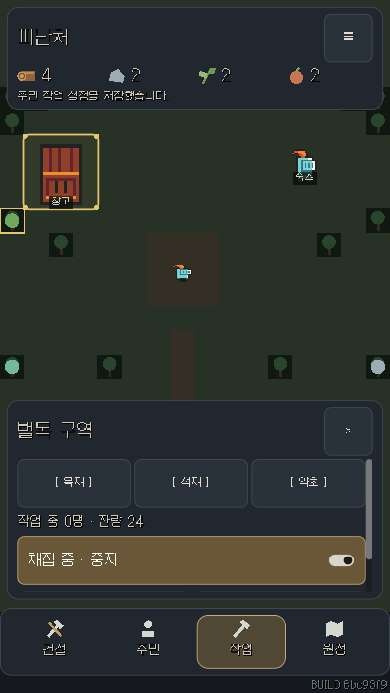
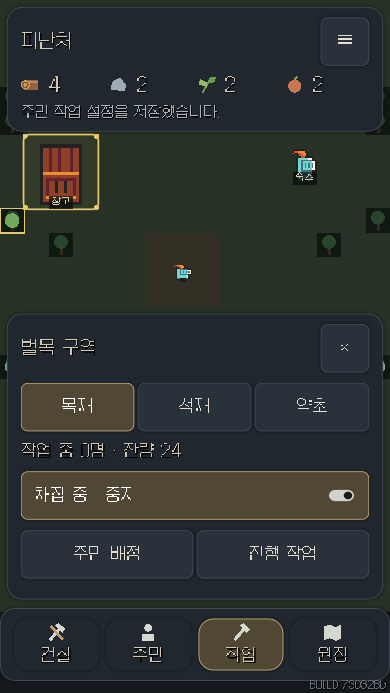
Polish settlement panel spacing typography and resource selection

diff --git a/docs/settlement-mobile-layout.md b/docs/settlement-mobile-layout.md
@@ -16,3 +16,9 @@
 - `tests/frontier_campaign_acceptance.gd`: PASS.
 - `tests/settlement_mobile_acceptance.gd`: X11 렌더링 모드 PASS. 360×640, 390×844 창 크기로 레이아웃·입력을 검증했다.
 - [실제 실행 화면](ui/settlement-mobile-layout-runtime.png). 화면 배율은 Godot viewport 설정을 따른다.
+
+## 후속 시각 정리
+
+버튼의 대괄호를 제거하고 본문/버튼 최소 글자 크기를 18로 올렸다. 자원 수량은 20, 하단 메뉴는 18로 통일했다. 패널 여백·그림자·상태별 버튼 색을 정리하고 상세 패널 높이를 화면에 맞춰 늘렸다. 채집 자원 탭은 선택 상태를 강조한다. 픽셀폰트와 기존 지도 에셋은 유지한다.
+
+현재 건설은 `sim/base_settlement_rules.gd`의 16×16 격자에 시설 단위(3×2 또는 3×3)로 배치하는 방식이다. 벽/문/바닥 개별 배치, 방 경계 판정, 실내 가구 배치는 아직 없다. 타일 기반 자유 건설은 별도 기능이며 이번 UI 변경에 포함하지 않는다.
